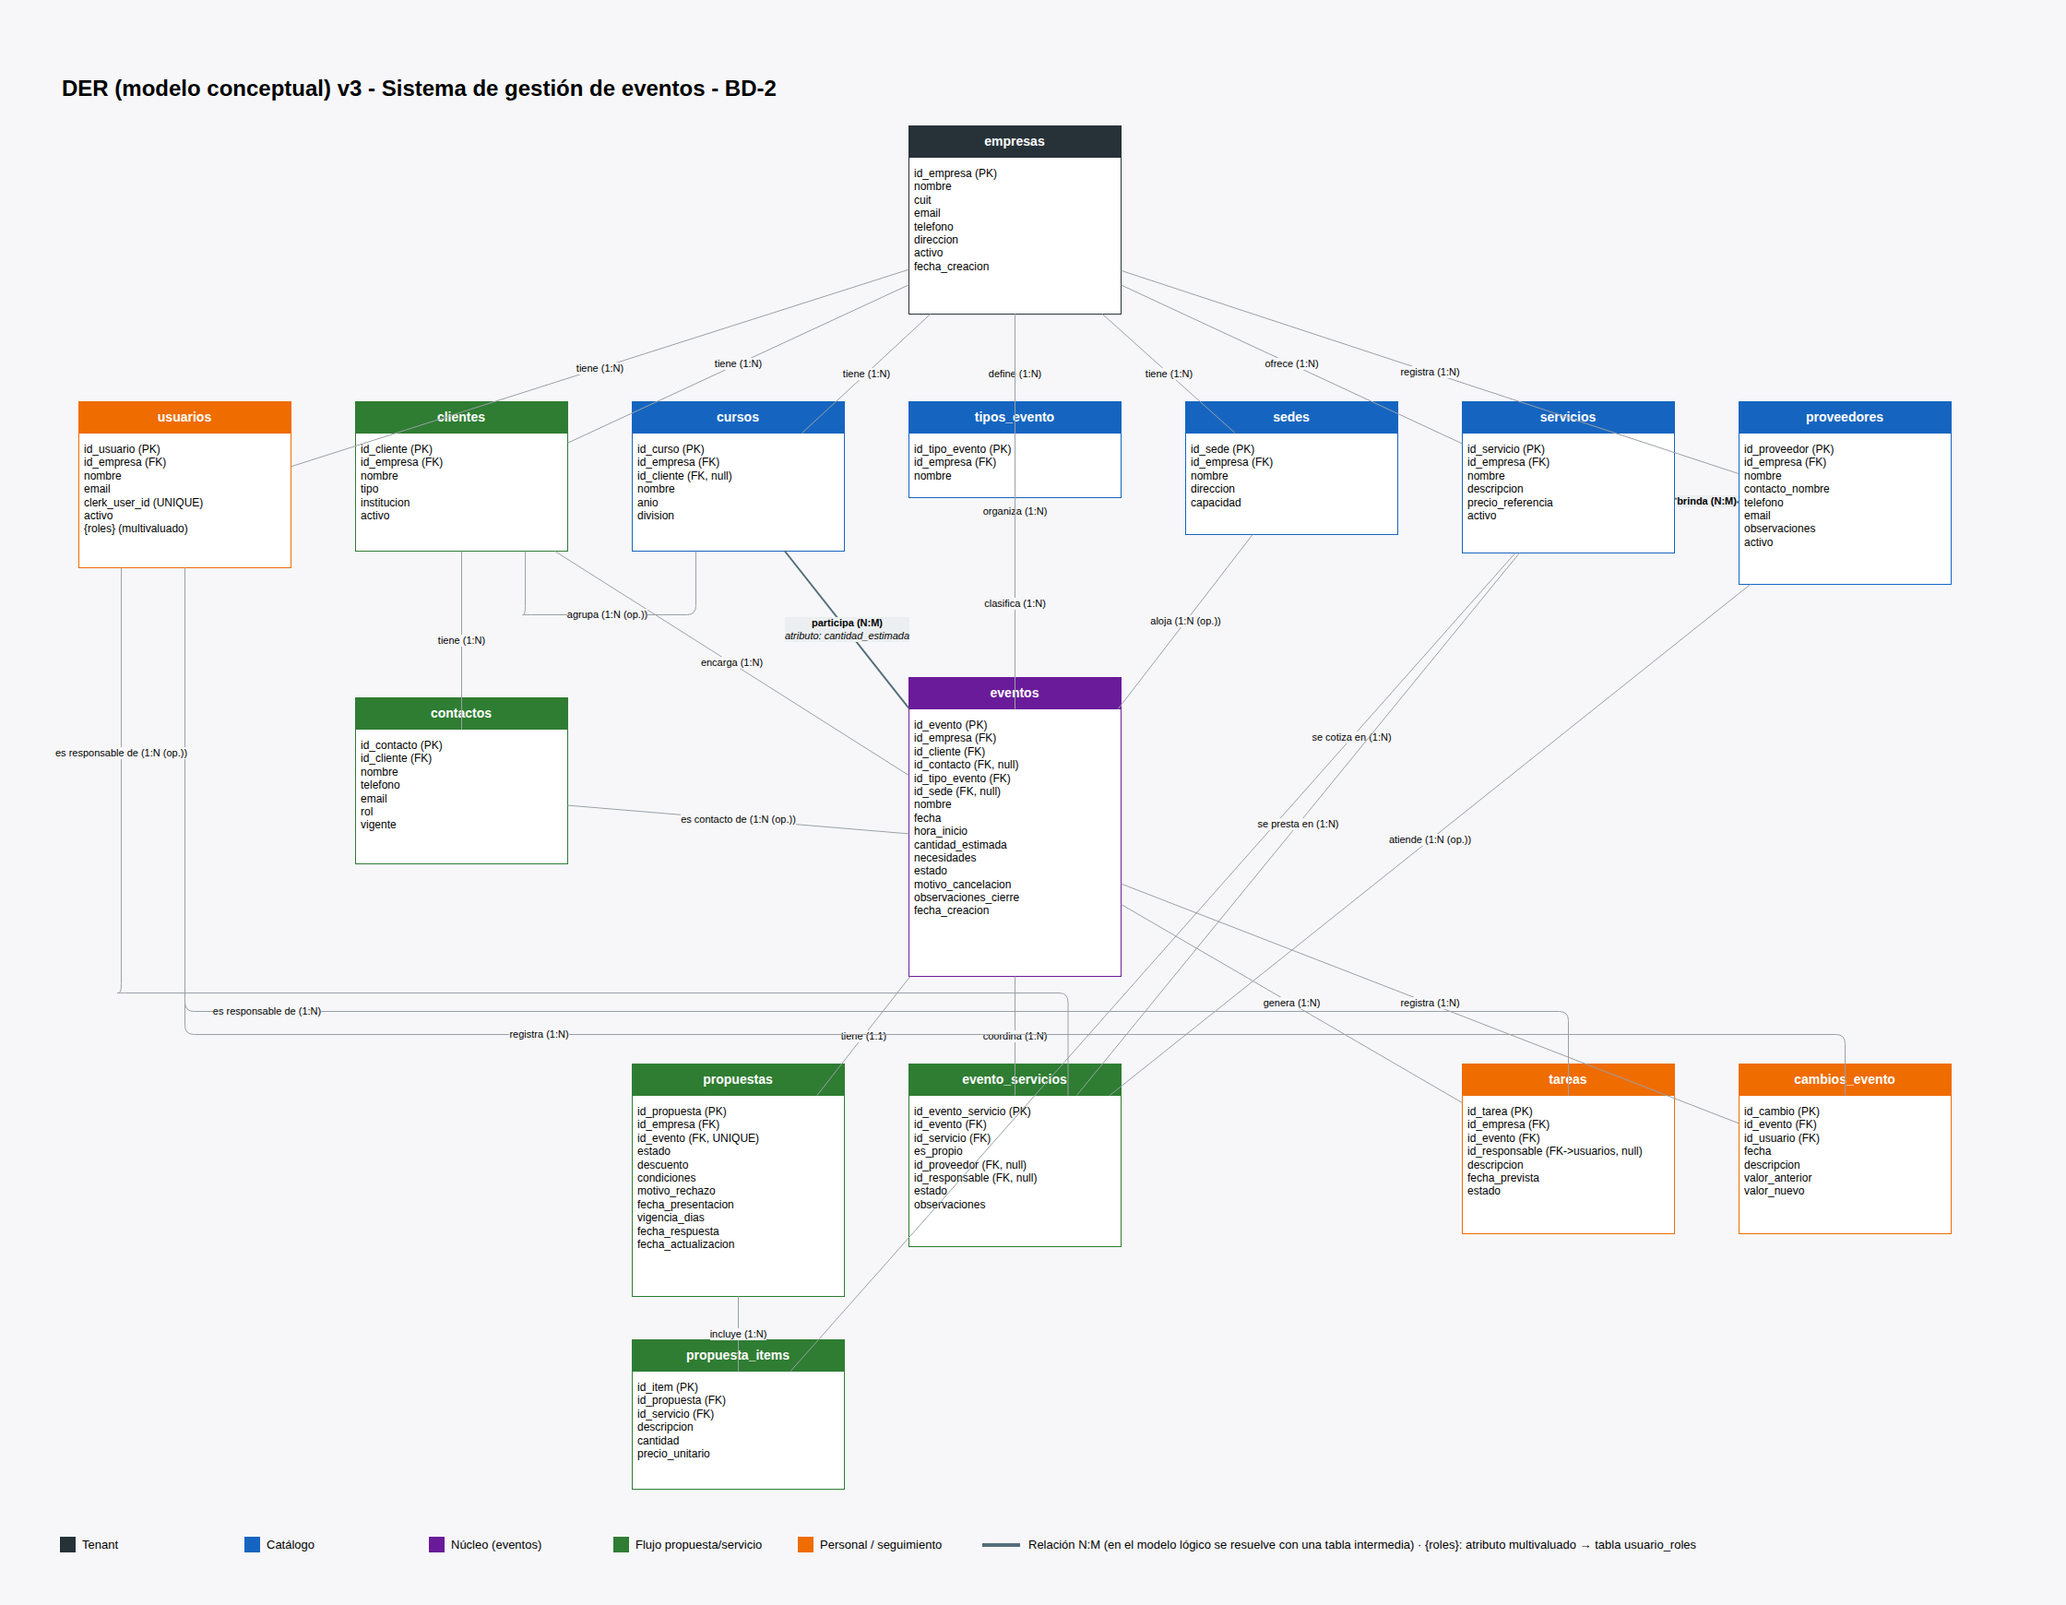
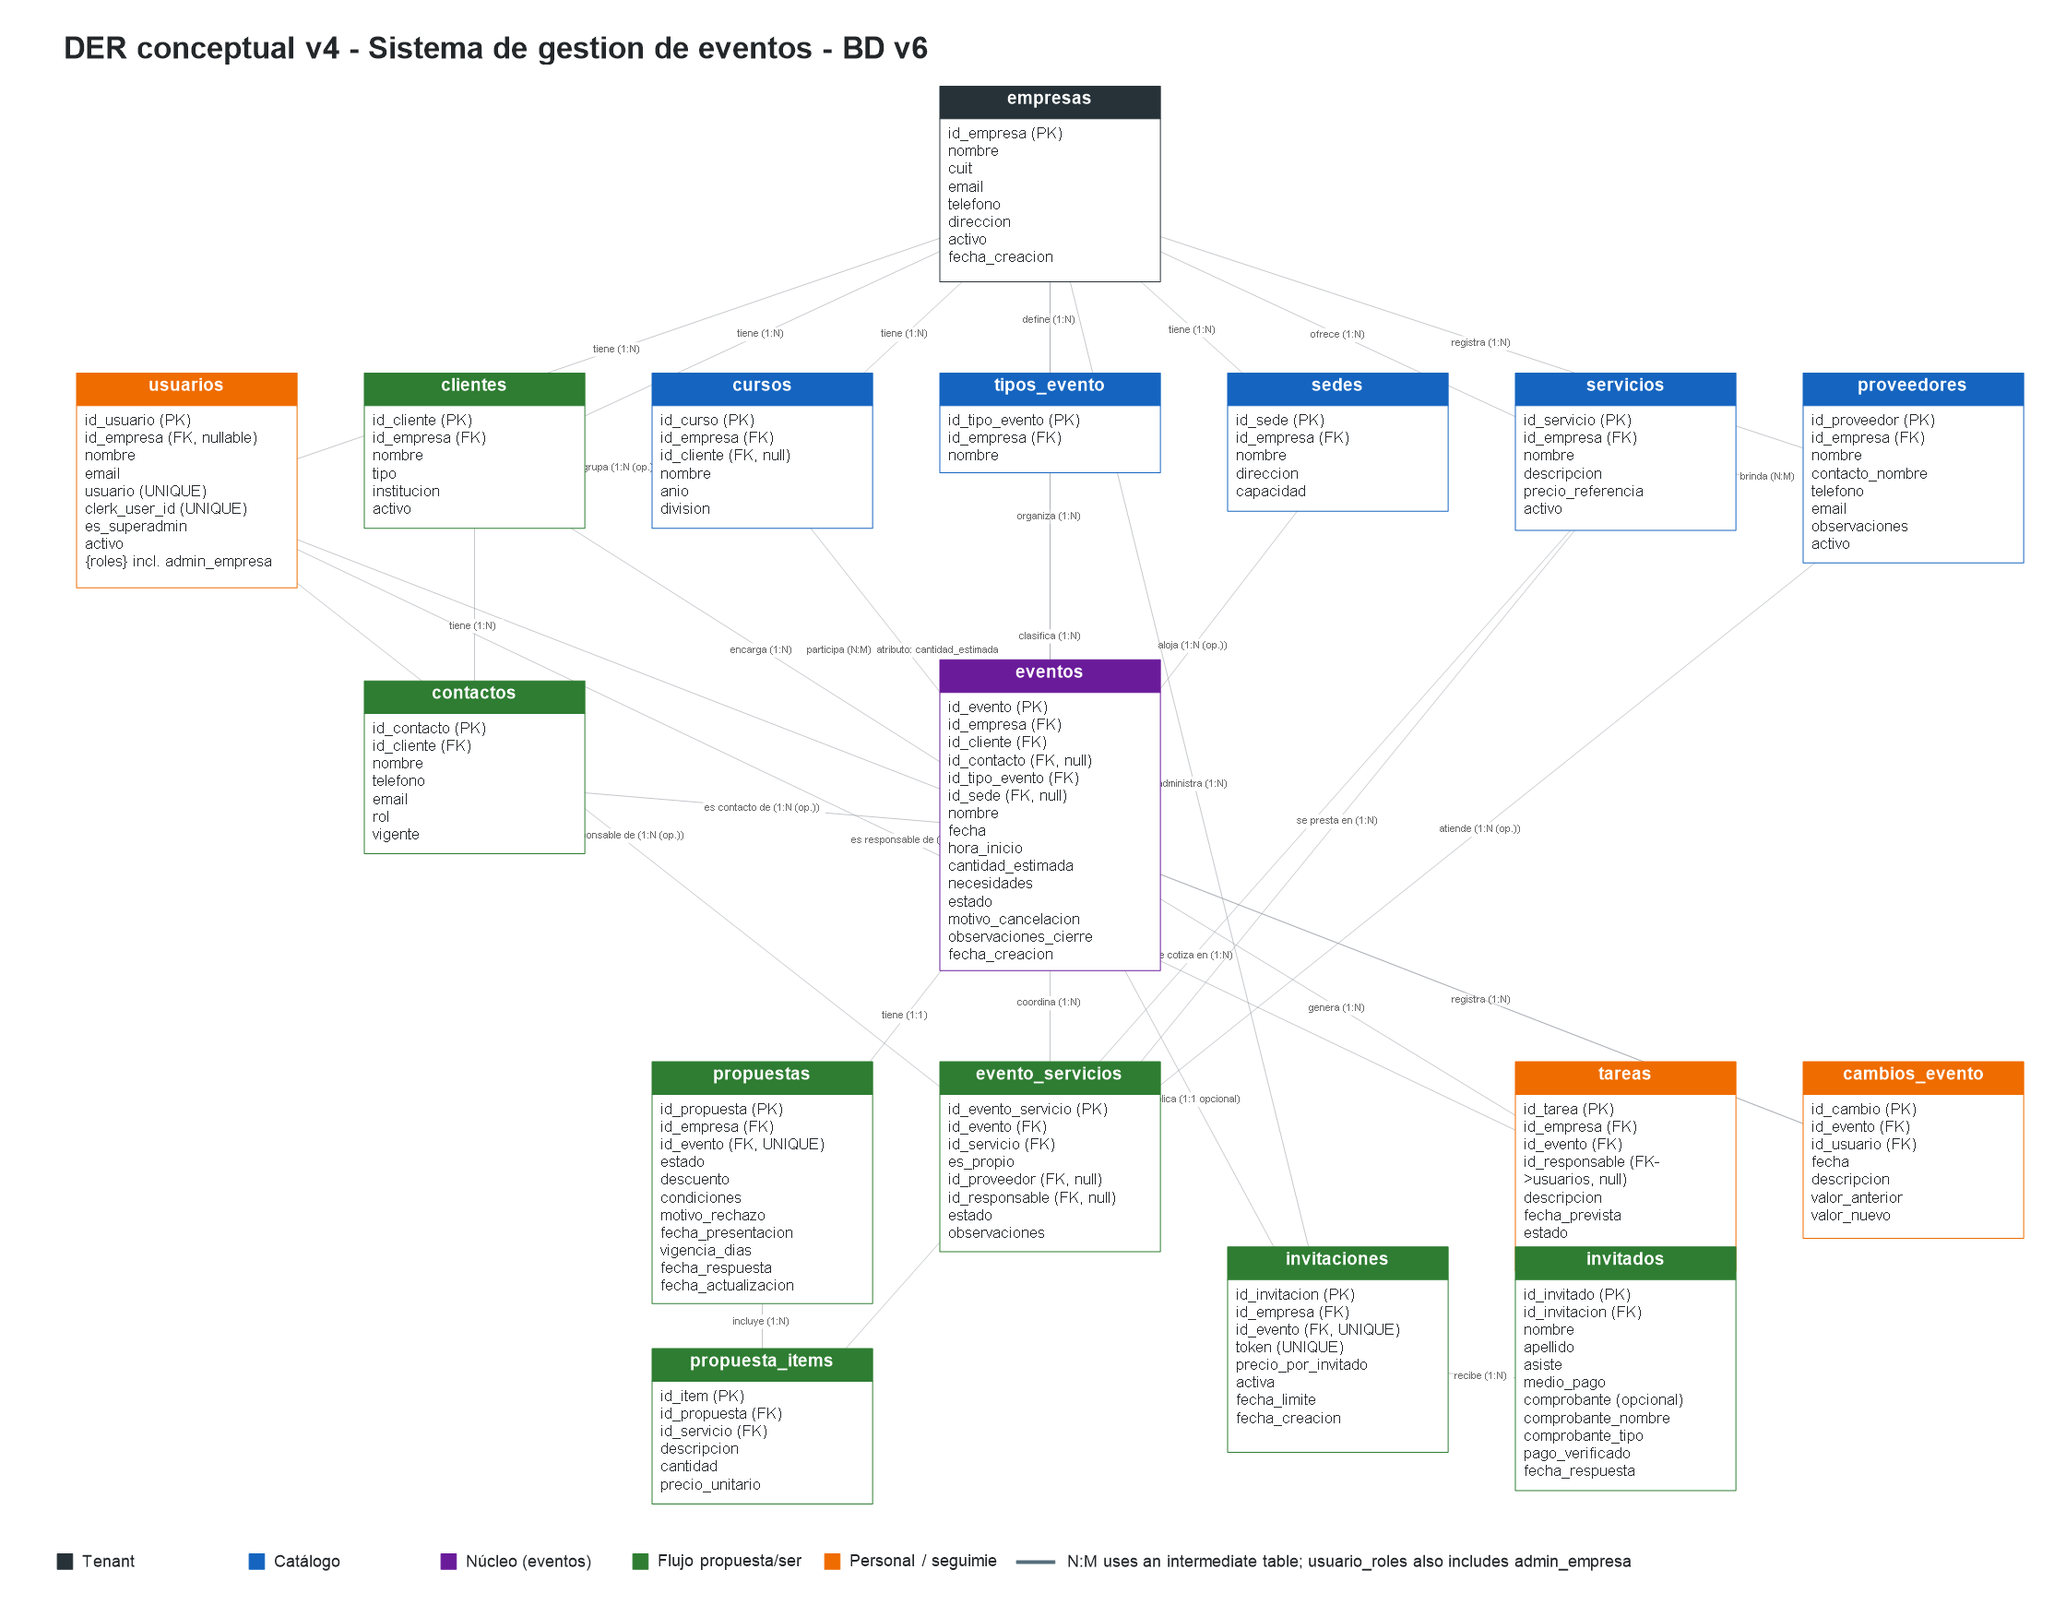
Docs v2: modelo y guia de uso

diff --git a/database/entidades.md b/database/entidades.md
@@ -1,6 +1,6 @@
 # Entidades y atributos del sistema de eventos
 
-> **Versión 4 · 16/10/2026** — login con Clerk por usuario y contraseña. (v2: ajustada con lo **confirmado en el relevamiento**.)
+> **Versión 6 · 22/10/2026** — acceso por empresa, roles de administración e invitados con respuesta y comprobante.
 > Todos tenemos que poder explicar por qué existe cada tabla.
 > Términos, estados y reglas: [lenguaje ubicuo](https://github.com/maxibertaina03/intermaterias-infra/blob/develop/docs/si/03-dominio.md).
 
@@ -31,20 +31,21 @@ organizadora tiene `id_empresa` → `empresas`.
 |--------|---------|--------|
 | La organizadora es una **empresa**; el **centro de estudiantes es el cliente** | Lo aclaró el cliente | R [M] |
 | Nueva tabla **`contactos`**, separada de `clientes` | El contacto (delegado, miembro de la comisión) puede cambiar sin que cambie el cliente | R [M] |
-| `usuarios.rol` pasa a la tabla **`usuario_roles`** | Hay 4 roles y **una persona puede tener varios** | R [M] |
+| `usuarios.rol` pasa a la tabla **`usuario_roles`** | Una persona puede tener varios roles | R [M] |
 | Nuevos **estados de `eventos`** (`recibida`, `falta_informacion`, `propuesta_enviada`, `no_aceptada`…) | Distinguir "pendiente de atención" de "propuesta enviada" es clave para no perder pedidos | R [M, T] |
 | `propuestas`: estados `presentada` y **`vencida`**, `fecha_presentacion`, `vigencia_dias` (15) y `descuento` | Las propuestas vencen a los 15 días; hay descuentos puntuales | R [T] |
 | `evento_servicios`: **`es_propio`** y **`id_responsable`** | Algunos servicios los hace el equipo propio, con un responsable | R [F] |
 | **v3:** `usuarios.clerk_user_id` en lugar de `password_hash` | El login lo hace **Clerk** (aprobado por el profe): las contraseñas no se guardan en nuestra base | Etapa 3 |
-| **v4:** `usuarios.email` pasa a ser opcional | Se entra con **usuario y contraseña** de Clerk; el usuario se crea solo la primera vez | Etapa 3 |
+| **v4:** `usuarios.email` pasa a ser opcional | Se entra con **usuario y contraseña** de Clerk | Etapa 3 |
+| **v5:** cada usuario pertenece a una empresa; `usuarios.usuario`, `usuarios.es_superadmin` y el rol `admin_empresa` | El super admin crea empresas y su primer administrador; cada administrador gestiona el acceso de su equipo | Migración 005 |
+| **v6:** `invitaciones` e `invitados` | Cada evento confirmado puede tener un link público para responder y registrar el pago/comprobante | Migración 006 |
 
 ## Lo que NO guardamos (fuera del alcance)
 
 | Tema | Por qué no |
 |------|------------|
-| Lista de asistentes (quién va y quién no) | "No se administra a cada invitado": guardamos solo la cantidad estimada |
 | Tarjetas / entradas y su precio | Venta de entradas: fuera del alcance |
-| Cobros, señas, pagos a proveedores | Cobros y pagos: fuera del alcance. Además el cliente confirmó que **no piden seña** [T] |
+| Cobros con tarjeta, señas y pagos a proveedores | Se registra la respuesta al pago por invitado, pero no se procesa un cobro ni se administra una seña [T] |
 | Historial de versiones de la propuesta | Solo importa la vigente [T] (los cambios relevantes sí se registran) |
 
 ---
@@ -66,27 +67,33 @@ organizadora tiene `id_empresa` → `empresas`.
 | activo | BOOLEAN | DEFAULT TRUE |
 | fecha_creacion | TIMESTAMP | DEFAULT NOW() |
 
-### 2. `usuarios` — personal de la organizadora · A
+### 2. `usuarios` — personal de la organizadora y super admin · A
 
-Solo el personal de la empresa usa el sistema [R M]. Los roles van en `usuario_roles`.
+El personal pertenece a una empresa. El super admin administra las empresas y puede no pertenecer a ninguna. Los roles van en `usuario_roles`.
 
 | Atributo | Tipo | Restricciones | Por qué |
 |----------|------|---------------|---------|
 | id_usuario | SERIAL | PK | |
-| id_empresa | INT | NOT NULL, FK → empresas | |
+| id_empresa | INT | FK → empresas; NULL para el super admin | Define el tenant del usuario |
 | nombre | VARCHAR(100) | NOT NULL | |
 | email | VARCHAR(150) | UNIQUE (id_empresa, email) | Opcional: se copia de Clerk si la cuenta tiene email |
-| clerk_user_id | VARCHAR(64) | UNIQUE | Cuenta de Clerk. **Alta automática:** la primera vez que alguien entra, se crea su usuario en la empresa por defecto con sus roles |
-| activo | BOOLEAN | DEFAULT TRUE | Dar de baja sin borrar su historial |
+| usuario | VARCHAR(64) | UNIQUE | Identificador de login en Clerk (4 a 64 letras, números, guiones o guiones bajos) |
+| clerk_user_id | VARCHAR(64) | UNIQUE | Identificador de cuenta de Clerk; la contraseña se gestiona allí |
+| es_superadmin | BOOLEAN | NOT NULL, DEFAULT FALSE | Distingue a quien administra empresas |
+| activo | BOOLEAN | DEFAULT TRUE | Desactivar sin borrar su historial |
+
+La API solo da acceso a quien fue creado por un administrador. Las contraseñas de Clerk requieren **15 caracteres o más**.
 
 ### 3. `usuario_roles` — roles de cada usuario · R [M] (tabla N:M con valor fijo)
 
-"Una misma persona puede asumir más de una de estas responsabilidades" [M].
+"Una misma persona puede asumir más de una de estas responsabilidades" [M]. Además, `admin_empresa` habilita la administración de usuarios de la empresa.
 
 | Atributo | Tipo | Restricciones |
 |----------|------|---------------|
 | id_usuario | INT | PK compuesta, FK → usuarios |
-| rol | VARCHAR(30) | PK compuesta, CHECK (rol IN ('atencion_cliente', 'responsable_propuesta', 'responsable_organizacion', 'integrante')) |
+| rol | VARCHAR(30) | PK compuesta, CHECK (rol IN ('admin_empresa', 'atencion_cliente', 'responsable_propuesta', 'responsable_organizacion', 'integrante')) |
+
+`admin_empresa` administra los usuarios de su empresa y no puede quitarse el rol ni desactivarse a sí mismo.
 
 ### 4. `clientes` — quien encarga el evento · R [M]
 
@@ -305,6 +312,43 @@ revisión la hace el personal, no el sistema [M, T].
 | valor_anterior | TEXT | |
 | valor_nuevo | TEXT | |
 
+### 19. `invitaciones` — enlace público para confirmar asistencia · v6
+
+Cada evento tiene como máximo una invitación. La empresa comparte su token con el centro para que sus invitados respondan sin iniciar sesión.
+
+| Atributo | Tipo | Restricciones |
+|----------|------|---------------|
+| id_invitacion | SERIAL | PK |
+| id_empresa | INT | NOT NULL, FK → empresas |
+| id_evento | INT | NOT NULL, UNIQUE, FK → eventos |
+| token | VARCHAR(64) | NOT NULL, UNIQUE |
+| precio_por_invitado | NUMERIC(12,2) | NOT NULL, CHECK (precio_por_invitado >= 0) |
+| activa | BOOLEAN | NOT NULL, DEFAULT TRUE |
+| fecha_limite | DATE | Opcional; vencido después de esta fecha |
+| fecha_creacion | TIMESTAMP | DEFAULT NOW() |
+
+La API solo permite crearla o actualizarla para eventos `confirmado` o `en_preparacion`. El token identifica el enlace público; una invitación inactiva o vencida ya no acepta respuestas.
+
+### 20. `invitados` — respuesta de una persona al evento · v6
+
+No requiere cuenta. Cada respuesta indica si asiste y, si asiste, cómo paga. Puede adjuntar un comprobante que el equipo verifica después.
+
+| Atributo | Tipo | Restricciones |
+|----------|------|---------------|
+| id_invitado | SERIAL | PK |
+| id_invitacion | INT | NOT NULL, FK → invitaciones |
+| nombre | VARCHAR(100) | NOT NULL |
+| apellido | VARCHAR(100) | NOT NULL |
+| asiste | BOOLEAN | NOT NULL |
+| medio_pago | VARCHAR(20) | CHECK (medio_pago IN ('efectivo', 'transferencia')); NULL si no asiste |
+| comprobante | BYTEA | Opcional; archivo PDF, JPG o PNG (máximo 5 MB) |
+| comprobante_nombre | VARCHAR(200) | Nombre original del archivo |
+| comprobante_tipo | VARCHAR(100) | MIME type del archivo |
+| pago_verificado | BOOLEAN | NOT NULL, DEFAULT FALSE |
+| fecha_respuesta | TIMESTAMP | DEFAULT NOW() |
+
+Regla: si `asiste` es falso, `medio_pago` debe ser NULL. El comprobante es opcional y el administrador puede marcar el pago como verificado.
+
 ---
 
 ## Relaciones
@@ -312,6 +356,7 @@ revisión la hace el personal, no el sistema [M, T].
 | Relación | Cardinalidad | Cómo se resuelve |
 |----------|--------------|------------------|
 | empresa — usuarios, clientes, cursos, tipos_evento, sedes, eventos, servicios, proveedores | 1 : N | `id_empresa` en cada tabla |
+| usuario — empresa | N : 1 (opcional para super admin) | `usuarios.id_empresa` |
 | usuario — roles | 1 : N (valores fijos) | tabla `usuario_roles` |
 | cliente — contactos | 1 : N | `contactos.id_cliente` |
 | cliente — eventos | 1 : N | `eventos.id_cliente` |
@@ -331,6 +376,9 @@ revisión la hace el personal, no el sistema [M, T].
 | usuario — tareas (responsable) | 1 : N | `tareas.id_responsable` |
 | evento — cambios | 1 : N | `cambios_evento.id_evento` |
 | usuario — cambios (quién registró) | 1 : N | `cambios_evento.id_usuario` |
+| empresa — invitaciones | 1 : N | `invitaciones.id_empresa` |
+| evento — invitación | 1 : 1 (opcional) | `invitaciones.id_evento` UNIQUE |
+| invitación — invitados | 1 : N | `invitados.id_invitacion` |
 
 ## Cómo cubre el recorrido obligatorio
 
@@ -344,12 +392,14 @@ revisión la hace el personal, no el sistema [M, T].
 | Consultar pendientes | evento_servicios `pendiente`; tareas no hechas o vencidas; propuestas por vencer |
 | Cambio relevante | cambios_evento |
 | Cerrar o cancelar | eventos `realizado` (+ observaciones) / `cancelado` (+ motivo) |
+| Confirmar invitados y revisar pagos | invitaciones, invitados (respuestas públicas sin login) |
 
 ## Reglas que valida la API (no la base)
 
 - **No se cargan servicios acordados ni tareas** si el evento no está `confirmado` o posterior [M].
 - Al aceptar la propuesta, el evento pasa a `confirmado` y se crean los `evento_servicios` desde los ítems [T].
 - Una propuesta `presentada` pasa a `vencida` si pasaron `vigencia_dias` sin respuesta [T].
+- El formulario público acepta respuestas mientras la invitación esté activa y dentro de su fecha límite; el comprobante es opcional.
 
 ## Pendiente de confirmar (hipótesis)
 

diff --git a/README.md b/README.md
@@ -1,7 +1,6 @@
 # Intermaterias — Backend
 
-API del sistema de eventos (multitenant) hecha con **Node.js + Express + PostgreSQL**.
-Por ahora tiene el CRUD de `empresas`.
+API v2 del sistema de eventos (multitenant) hecha con **Node.js + Express + PostgreSQL**. Incluye gestión de empresas y usuarios, el ciclo de eventos y la confirmación pública de invitados.
 
 **Dominio:** una **empresa que organiza eventos para centros de estudiantes** (por ejemplo, la fiesta
 de bienvenida): solicitud, propuesta, confirmación, proveedores, tareas y cierre. La base es
@@ -26,9 +25,7 @@ cp .env.example .env     # completar con tus datos de PostgreSQL
 
 ### Base de datos
 
-La base del grupo está en **[Neon](https://neon.tech)** (PostgreSQL en la nube), así que todos usamos
-la misma, con la tabla `empresas` ya creada. Los datos de conexión (`DB_HOST`, `DB_PASSWORD`, etc.)
-se pasan **por privado**: completalos en tu `.env` con `DB_SSL=true`. Nunca los subas al repo.
+Completá los datos de conexión (`DB_HOST`, `DB_PASSWORD`, etc.) en tu `.env`. Los datos de la base compartida se pasan **por privado**; nunca los subas al repo. Para una instalación nueva, creá la base y ejecutá `database/schema.sql` (borra y vuelve a crear todas las tablas). Para actualizar una base existente, aplicá en orden las migraciones que le falten; las migraciones 005 y 006 llevan v4 a v6.
 
 **Base local (opcional, para hacer pruebas sin tocar la compartida):** poné `DB_HOST=localhost` y
 `DB_SSL=false` en el `.env`, y creá la base con alguna de estas opciones:
@@ -56,9 +53,23 @@ npm start       # producción
 
 El servidor queda en `http://localhost:3000`.
 
+## Guía de uso v2
+
+### Login por empresa
+
+El ingreso real se hace con **usuario y contraseña mediante Clerk**. Configurá `CLERK_PUBLISHABLE_KEY` y `CLERK_SECRET_KEY` en el backend, y `VITE_CLERK_PUBLISHABLE_KEY` en el front. No hay registro público: el super admin inicia sesión como `superadmin`, crea la empresa y da de alta a su primer administrador. Desde entonces, `admin_empresa` crea y administra las cuentas de su propio equipo en **Usuarios**. Cada persona usa el nombre de usuario que le asignaron; los datos y permisos quedan limitados a su empresa. Las contraseñas las administra Clerk y deben tener al menos 15 caracteres.
+
+Para desarrollo local, si no configurás claves de Clerk, indicá en el backend `DEV_ID_USUARIO=1` (Sofía, administradora de Eventos del Centro). `DEV_ID_USUARIO=5` simula el super admin. El esquema de prueba incluye también los usuarios 2, 3 y 4. Con Clerk activo, `DEMO_PASSWORD='una-clave-de-15-caracteres-o-mas' npm run usuarios-demo` crea las cuentas de ejemplo.
+
+### Invitados
+
+Cuando el evento está confirmado o en preparación, el equipo puede crear o actualizar su invitación e indicar el precio por persona y, opcionalmente, una fecha límite. Compartí con el centro el link público que contiene el token. Cada invitado lo abre sin iniciar sesión e informa nombre, apellido y si asiste; si asiste, elige efectivo o transferencia y puede adjuntar el comprobante (PDF, JPG o PNG de hasta 5 MB). El equipo consulta las respuestas, descarga comprobantes y marca los pagos verificados desde el evento. Una invitación inactiva o vencida no acepta respuestas.
+
+Los endpoints y cuerpos completos están en [ESTRUCTURA.md](ESTRUCTURA.md); el esquema y las reglas de cada tabla, en [database/entidades.md](database/entidades.md).
+
 ## Endpoints
 
-Todas bajo `/api/empresas`:
+La tabla siguiente resume las operaciones de empresas; los endpoints de usuarios e invitados están en [ESTRUCTURA.md](ESTRUCTURA.md).
 
 | Método | Ruta | Acción | Respuesta |
 |--------|------|--------|-----------|

diff --git a/CHANGELOG.md b/CHANGELOG.md
@@ -7,6 +7,10 @@ El formato sigue [Keep a Changelog](https://keepachangelog.com/es-ES/1.1.0/) y l
 
 ## [Sin publicar]
 
+### Cambiado
+- Documentación de entidades y guía de uso actualizadas a v6: administración de usuarios por empresa e invitados públicos.
+- DER conceptual actualizado con los campos de v2 y las entidades de invitaciones e invitados.
+
 ## [2.0.0] - 2026-10-22
 
 Cada empresa entra con sus propios usuarios y ve solo lo suyo, y los eventos tienen invitados con confirmación y pago. Es MAYOR porque cambia cómo se entra al sistema: las cuentas ya no se crean solas.
